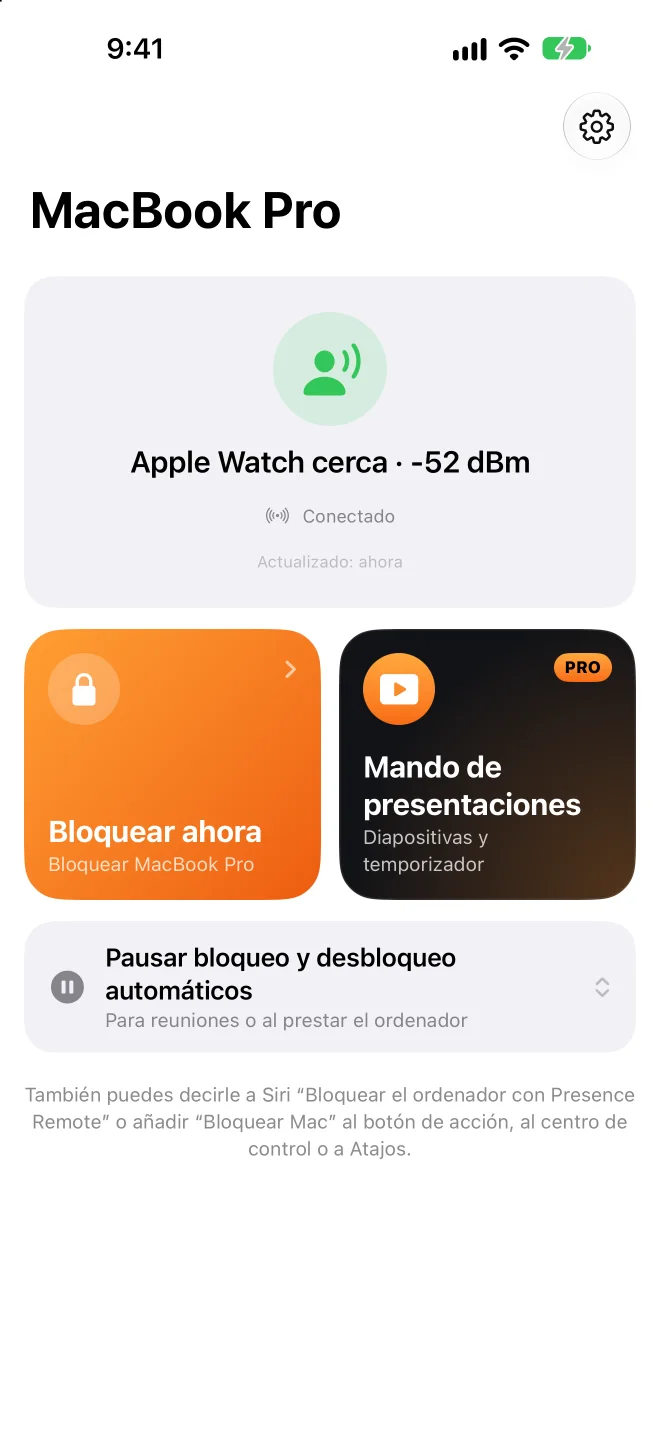
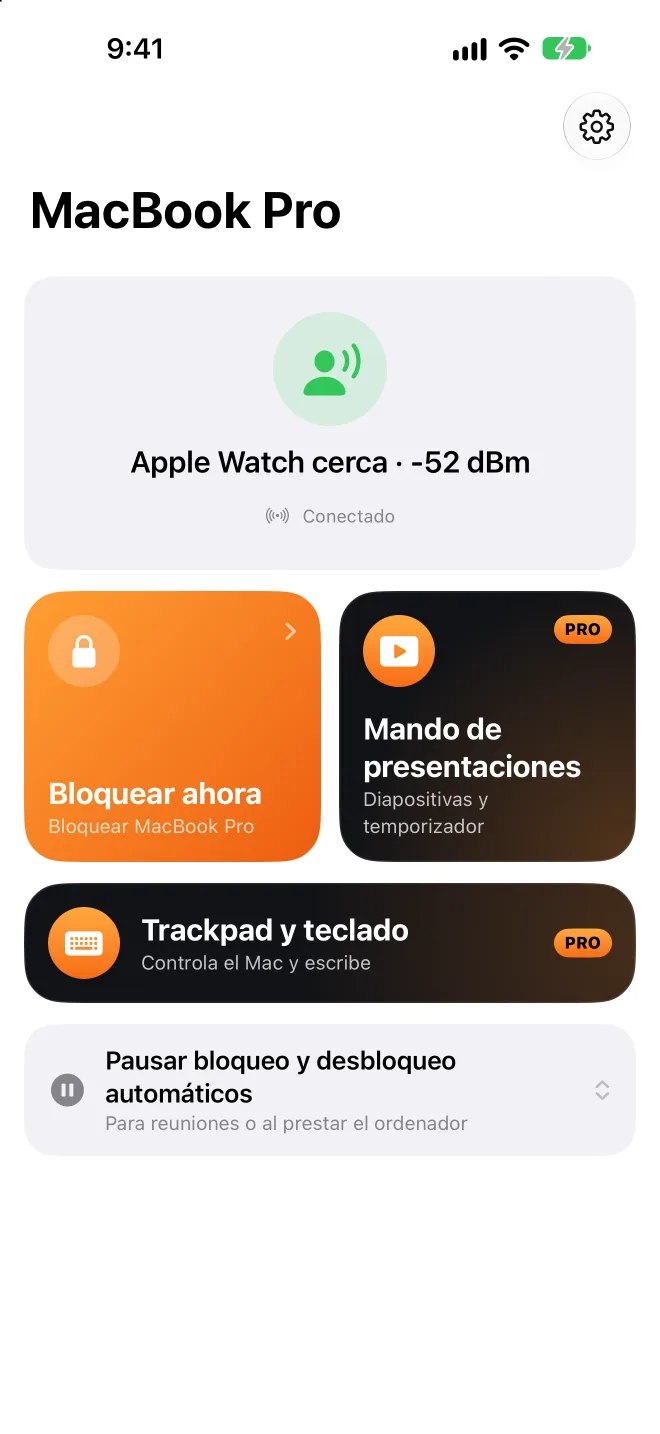
首頁：Presence Pro 加上觸控板與鍵盤、換新的 iPhone 截圖（八種語言）

Changed region(s): [[0.0303, 0.3989, 0.9697, 0.8285], [0.7879, 0.7364, 0.9394, 0.7978]]

diff --git a/ja/index.html b/ja/index.html
@@ -250,8 +250,8 @@
 
 <section class="block" id="plans">
   <div class="wrap">
-    <h2>ロックは無料。リモコンはPro。</h2>
-    <p class="intro">Mac版と、iPhone・Apple Watch用のPresence Remoteは無料です。Presence Proが必要なのは、プレゼンリモコンだけです。</p>
+    <h2>ロックは無料。リモコンとトラックパッドはPro。</h2>
+    <p class="intro">Mac版と、iPhone・Apple Watch用のPresence Remoteは無料です。Presence Proが必要なのは、プレゼンリモコンとトラックパッドとキーボードだけです。</p>
     <div class="plans">
       <div class="plan">
         <h3>Mac版</h3>
@@ -270,6 +270,7 @@
       <div class="plan pro">
         <h3>Presence Pro</h3>
         <p>プレゼンリモコン：スライド、レーザー、スポットライト、蛍光ペン、音量、発表タイマー。iPhoneでもApple Watchでも使えます。</p>
+        <p>トラックパッドとキーボード：iPhoneをMacのトラックパッドとキーボードとして使えます。ジェスチャーはMacのトラックパッドと同じです。</p>
         <div class="prices">
           <div><span>月額</span><b>¥150</b></div>
           <div><span>年額</span><b>¥800</b></div>

diff --git a/fr/index.html b/fr/index.html
@@ -250,8 +250,8 @@
 
 <section class="block" id="plans">
   <div class="wrap">
-    <h2>Le verrouillage est gratuit. La télécommande fait partie de Pro.</h2>
-    <p class="intro">L’app Mac et Presence Remote pour iPhone et Apple Watch sont gratuites. Seule la télécommande de présentation fait partie de Presence Pro.</p>
+    <h2>Le verrouillage est gratuit. La télécommande et le trackpad font partie de Pro.</h2>
+    <p class="intro">L’app Mac et Presence Remote pour iPhone et Apple Watch sont gratuites. Seuls la télécommande de présentation et Trackpad et clavier font partie de Presence Pro.</p>
     <div class="plans">
       <div class="plan">
         <h3>App Mac</h3>
@@ -270,6 +270,7 @@
       <div class="plan pro">
         <h3>Presence Pro</h3>
         <p>Télécommande de présentation : diapos, laser, projecteur, surligneur, volume et minuteur de présentation, sur iPhone et Apple Watch.</p>
+        <p>Trackpad et clavier : utilisez votre iPhone comme trackpad et clavier pour votre Mac, avec les mêmes gestes qu’un trackpad de Mac.</p>
         <div class="prices">
           <div><span>Mensuel</span><b>0,99 €</b></div>
           <div><span>Annuel</span><b>5,99 €</b></div>

diff --git a/ko/index.html b/ko/index.html
@@ -250,8 +250,8 @@
 
 <section class="block" id="plans">
   <div class="wrap">
-    <h2>잠금은 무료입니다. 프레젠터만 Pro입니다.</h2>
-    <p class="intro">Mac 앱과 iPhone 및 Apple Watch용 Presence Remote는 무료입니다. 프레젠테이션 리모컨만 Presence Pro에 포함됩니다.</p>
+    <h2>잠금은 무료입니다. 프레젠터와 트랙패드만 Pro입니다.</h2>
+    <p class="intro">Mac 앱과 iPhone 및 Apple Watch용 Presence Remote는 무료입니다. 프레젠테이션 리모컨과 트랙패드 및 키보드만 Presence Pro에 포함됩니다.</p>
     <div class="plans">
       <div class="plan">
         <h3>Mac 앱</h3>
@@ -270,6 +270,7 @@
       <div class="plan pro">
         <h3>Presence Pro</h3>
         <p>프레젠테이션 리모컨: 슬라이드, 레이저, 스포트라이트, 형광펜, 음량, 발표 타이머. iPhone과 Apple Watch에서 쓸 수 있습니다.</p>
+        <p>트랙패드 및 키보드: iPhone을 Mac의 트랙패드와 키보드로 사용합니다. 제스처는 Mac 트랙패드와 같습니다.</p>
         <div class="prices">
           <div><span>월간</span><b>₩1,100</b></div>
           <div><span>연간</span><b>₩7,700</b></div>

diff --git a/de/index.html b/de/index.html
@@ -250,8 +250,8 @@
 
 <section class="block" id="plans">
   <div class="wrap">
-    <h2>Sperren ist gratis. Der Presenter ist Pro.</h2>
-    <p class="intro">Die Mac-App und Presence Remote für iPhone und Apple Watch sind kostenlos. Nur die Präsentationssteuerung gehört zu Presence Pro.</p>
+    <h2>Sperren ist gratis. Presenter und Trackpad sind Pro.</h2>
+    <p class="intro">Die Mac-App und Presence Remote für iPhone und Apple Watch sind kostenlos. Nur die Präsentationssteuerung sowie Trackpad &amp; Tastatur gehören zu Presence Pro.</p>
     <div class="plans">
       <div class="plan">
         <h3>Mac-App</h3>
@@ -270,6 +270,7 @@
       <div class="plan pro">
         <h3>Presence Pro</h3>
         <p>Präsentationssteuerung: Folien, Laser, Spotlight, Marker, Lautstärke und Vortragstimer – auf iPhone und Apple Watch.</p>
+        <p>Trackpad &amp; Tastatur: Nutze dein iPhone als Trackpad und Tastatur für deinen Mac, mit den gleichen Gesten wie beim Mac-Trackpad.</p>
         <div class="prices">
           <div><span>Monatlich</span><b>0,99&nbsp;€</b></div>
           <div><span>Jährlich</span><b>5,99&nbsp;€</b></div>

diff --git a/es/index.html b/es/index.html
@@ -250,8 +250,8 @@
 
 <section class="block" id="plans">
   <div class="wrap">
-    <h2>Bloquear es gratis. El pasador es Pro.</h2>
-    <p class="intro">La app para Mac y Presence Remote para iPhone y Apple Watch son gratuitas. Solo el mando de presentaciones forma parte de Presence Pro.</p>
+    <h2>Bloquear es gratis. El pasador y el trackpad son Pro.</h2>
+    <p class="intro">La app para Mac y Presence Remote para iPhone y Apple Watch son gratuitas. Solo el mando de presentaciones y Trackpad y teclado forman parte de Presence Pro.</p>
     <div class="plans">
       <div class="plan">
         <h3>App para Mac</h3>
@@ -270,6 +270,7 @@
       <div class="plan pro">
         <h3>Presence Pro</h3>
         <p>Mando de presentaciones: diapositivas, láser, foco, subrayador, volumen y temporizador de charla, en el iPhone y el Apple Watch.</p>
+        <p>Trackpad y teclado: usa tu iPhone como trackpad y teclado para tu Mac, con los mismos gestos que el trackpad de un Mac.</p>
         <div class="prices">
           <div><span>Mensual</span><b>0,99&nbsp;€</b></div>
           <div><span>Anual</span><b>5,99&nbsp;€</b></div>

diff --git a/zh-Hans/index.html b/zh-Hans/index.html
@@ -250,8 +250,8 @@
 
 <section class="block" id="plans">
   <div class="wrap">
-    <h2>锁定是免费的。翻页笔才要钱。</h2>
-    <p class="intro">Mac 版和 iPhone、Apple Watch 上的 Presence Remote 都可以免费使用。只有演示遥控属于 Presence Pro。</p>
+    <h2>锁定是免费的。翻页笔和触控板才要钱。</h2>
+    <p class="intro">Mac 版和 iPhone、Apple Watch 上的 Presence Remote 都可以免费使用。只有演示遥控、触控板与键盘属于 Presence Pro。</p>
     <div class="plans">
       <div class="plan">
         <h3>Mac 版</h3>
@@ -270,6 +270,7 @@
       <div class="plan pro">
         <h3>Presence Pro</h3>
         <p>演示遥控：翻页、激光笔、聚光灯、荧光笔、音量、演讲倒计时，iPhone 和 Apple Watch 都能用。</p>
+        <p>触控板与键盘：把 iPhone 当 Mac 的触控板和键盘，手势跟 Mac 一样，打字用手机的输入法。</p>
         <div class="prices">
           <div><span>月度订阅</span><b>US$0.99</b></div>
           <div><span>年度订阅</span><b>US$4.99</b></div>

diff --git a/index.html b/index.html
@@ -250,8 +250,8 @@
 
 <section class="block" id="plans">
   <div class="wrap">
-    <h2>鎖定是免費的。簡報筆才要錢。</h2>
-    <p class="intro">Mac 版和 iPhone、Apple Watch 的 Presence Remote 都可以免費使用。只有簡報遙控是 Presence Pro。</p>
+    <h2>鎖定是免費的。簡報筆和觸控板才要錢。</h2>
+    <p class="intro">Mac 版和 iPhone、Apple Watch 的 Presence Remote 都可以免費使用。只有簡報遙控、觸控板與鍵盤是 Presence Pro。</p>
     <div class="plans">
       <div class="plan">
         <h3>Mac 版</h3>
@@ -270,6 +270,7 @@
       <div class="plan pro">
         <h3>Presence Pro</h3>
         <p>簡報遙控：翻頁、雷射筆、聚光燈、螢光筆、音量、演講倒數，iPhone 和 Apple Watch 都能用。</p>
+        <p>觸控板與鍵盤：把 iPhone 當 Mac 的觸控板和鍵盤，手勢跟 Mac 一樣，打字用手機的輸入法。</p>
         <div class="prices">
           <div><span>月訂閱</span><b>NT$30</b></div>
           <div><span>年訂閱</span><b>NT$150</b></div>

diff --git a/en/index.html b/en/index.html
@@ -250,8 +250,8 @@
 
 <section class="block" id="plans">
   <div class="wrap">
-    <h2>Locking is free. The clicker is Pro.</h2>
-    <p class="intro">The Mac app and Presence Remote for iPhone and Apple Watch are free. Only Presenter Remote is part of Presence Pro.</p>
+    <h2>Locking is free. The clicker and trackpad are Pro.</h2>
+    <p class="intro">The Mac app and Presence Remote for iPhone and Apple Watch are free. Only Presenter Remote and Trackpad &amp; Keyboard are part of Presence Pro.</p>
     <div class="plans">
       <div class="plan">
         <h3>Mac app</h3>
@@ -270,6 +270,7 @@
       <div class="plan pro">
         <h3>Presence Pro</h3>
         <p>Presenter Remote: slides, laser, spotlight, highlighter, volume, and talk timer, on iPhone and Apple Watch.</p>
+        <p>Trackpad &amp; Keyboard: use your iPhone as a trackpad and keyboard for your Mac, with the same gestures as a Mac trackpad.</p>
         <div class="prices">
           <div><span>Monthly</span><b>US$0.99</b></div>
           <div><span>Yearly</span><b>US$4.99</b></div>
